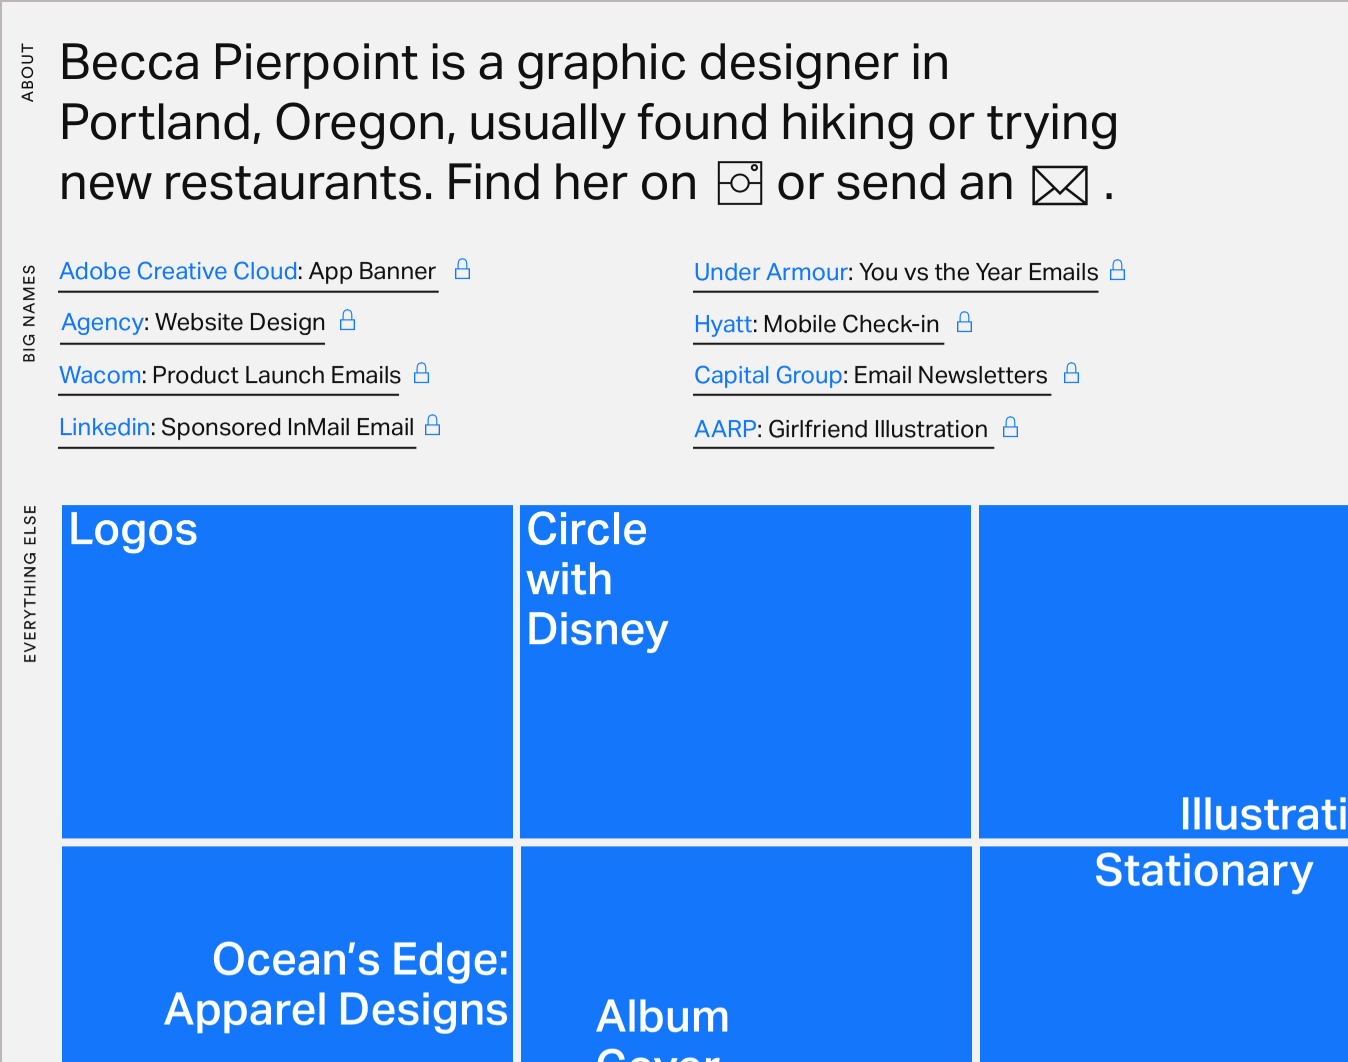
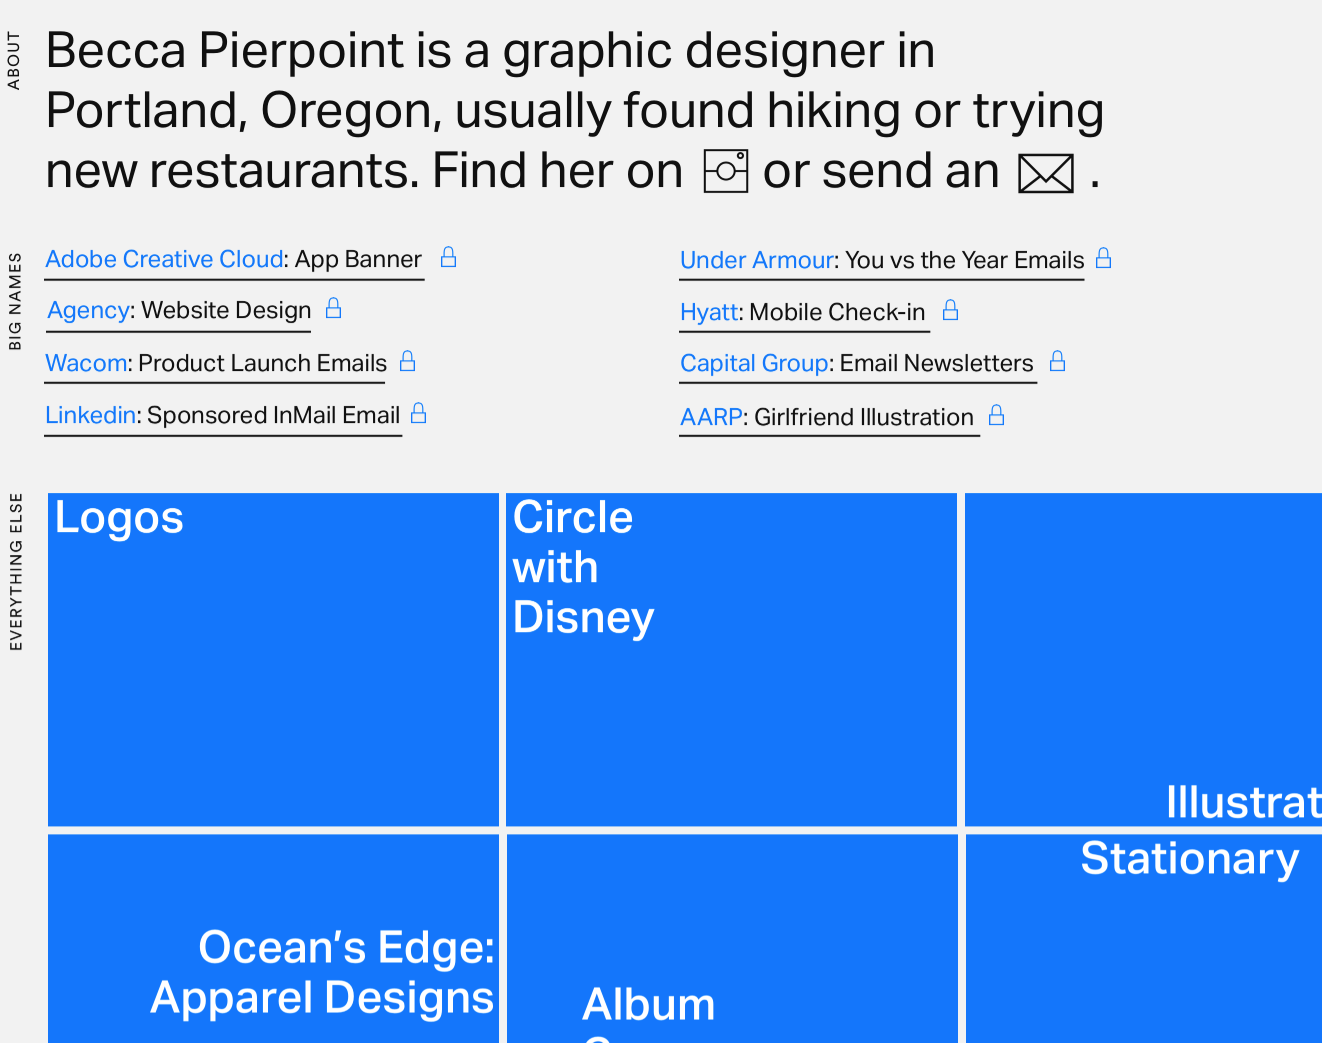
Finished Template?

diff --git a/index.html b/index.html
@@ -8,14 +8,23 @@
     <link href="https://fonts.googleapis.com/css?family=DM+Serif+Display&display=swap" rel="stylesheet">
     <link rel="stylesheet" href="https://maxcdn.bootstrapcdn.com/bootstrap/4.0.0/css/bootstrap.min.css" integrity="sha384-Gn5384xqQ1aoWXA+058RXPxPg6fy4IWvTNh0E263XmFcJlSAwiGgFAW/dAiS6JXm" crossorigin="anonymous">
     <link href="https://fonts.googleapis.com/css?family=Noto+Sans+HK:500&display=swap" rel="stylesheet">
+    <link rel="stylesheet" href="https://use.typekit.net/qem7thb.css">
     <script src="https://ajax.googleapis.com/ajax/libs/jquery/3.4.1/jquery.min.js"></script>
     <script src="https://ajax.googleapis.com/ajax/libs/jquery/2.1.1/jquery.min.js"></script>
+    <script type="text/javascript" src="https://cdn.emailjs.com/sdk/2.3.2/email.min.js"></script>
+  <script type="text/javascript">
+   (function(){
+      emailjs.init("user_ZAWMKXuZJCblF5cQ3OYJ3");
+   })();
+  </script>
+  <script src="https://www.google.com/recaptcha/api.js?render=reCAPTCHA_site_key"></script>
+  <script src="https://www.google.com/recaptcha/api.js" async defer></script>
     <script type="text/javascript" src="/scripts/index.js"></script>
     <title>alexanderpierpoint</title>
 </head>
 <body class="body">
   <div class="navigation">
-      <nav class="navbar navbar-expand-lg navbar-light position-sticky">
+      <nav class="navbar navbar-expand-lg navbar-light">
           <button class="navbar-toggler" type="button" data-toggle="collapse" data-target="#navbarNav" aria-controls="navbarNav" aria-expanded="false" aria-label="Toggle navigation">
             <span class="navbar-toggler-icon"></span>
           </button>
@@ -68,6 +77,7 @@
                     <h5 class="card-title">Becca's Portfolio</h5>
                     <p class="card-text">Becca Pierpoint responsive design portfolio built with React.js</p>
                     <a href="#" class="btn btn-outline-secondary">Check it out</a>
+                    <a href="#" class="btn btn-outline-secondary">github</a>
                   </div>
                 </div>
               <div class="card bg-transparent col-sm">
@@ -76,10 +86,44 @@
                         <h5 class="card-title">Becca's Portfolio</h5>
                         <p class="card-text">Becca Pierpoint responsive design portfolio built with React.js</p>
                         <a href="#" class="btn btn-outline-secondary">Check it out</a>
+                        <a href="#" class="btn btn-outline-secondary">github</a>
                       </div>
                     </div>
                 </div>
           </div>
+
+          <div class="contact" id="contact">
+                <h4>Contact Me.</h4>
+                <p>Currently looking for full time entry level positions.</p>
+
+                <div id="booking-form" class="container-fluid booking-form">
+              
+                    <div id="inputs" class="container-fluid">
+              
+                      <input id="name" type="text"  alt="submit" placeholder="Name" name="foo" /><br>
+                      <input id="email" type="text"  alt="submit" placeholder="Email Adress" /><br>
+                      <textarea id="talk-to-me" type="text"  alt="submit" placeholder="Talk to me"></textarea><br>
+                      </div>
+                      <div id="inputs" class="container-fluid">
+                      <textarea id="how" type="text"  alt="submit" placeholder="How did you find me?"></textarea><br>
+                      <button onclick="sendMail(), success()" id="submit">Submit</button>
+                    </div><br>
+              
+              
+                    <div class="g-recaptcha" data-sitekey="6LeNLqoUAAAAAGOd386OPuSlB8zBSkMdi0UrfTaL"></div>
+              
+              
+                    </div>
+          </div>
+
+          <div class="social">
+            <div class="icons">
+              <a></a>
+            </div>
+
+          </div>
+
+
 
         </div>
 

diff --git a/css/styles.css b/css/styles.css
@@ -1,13 +1,21 @@
 .body {
-  background-color: #fff5db;
+  background-color:#fefdfa;
   display: grid;
 }
 
 .navigation {
+  position: fixed;
+  top: 0;
   margin: 10px;
   justify-self: end;
   grid-template-rows: 100%;
   position: sticky;
+  border: 1px solid lawngreen;
+  z-index: 99;
+}
+
+.navigation .nav-item {
+  color: lawngreen;
 }
 
 .hello {
@@ -30,7 +38,7 @@
   background-size: 100%;
   background-repeat: no-repeat;
   margin-top: 9em;
-  padding: 3em;
+  padding: 5em;
   padding-bottom: 3em;
   margin-left: 60px;
   margin-right: 60px;
@@ -41,10 +49,12 @@
   margin-left: 20px;
   margin-right: 20px;
   margin-top: 1vh;
-  font-family: 'Noto Sans HK', sans-serif;
+  font-family: sofia-pro, sans-serif;
+  font-weight: 700;
+  font-style: normal;
   font-size: 3vw;
  /* background-color: rgba(255, 228, 153, 0.8);*/
-  color: whitesmoke;
+  color: white;
   text-align: right;
 }
 
@@ -52,24 +62,25 @@
   padding: 12px;
   margin-right: 20px;
   margin-left: 20px;
-  font-family: 'Noto Sans HK', sans-serif;
+  font-family: sofia-pro, sans-serif;
+  font-weight: 700;
+  font-style: normal;
   font-size: 3vw;
  /* background-color: rgba(255, 228, 153, 0.8); */
-  color: whitesmoke;
+  color: white;
   text-align: left;
 }
 
 
 .projects {
-  background-color: #fff5db;
-  margin-top: 5em;
+  margin-top: 10em;
 }
 
 .projects h3 {
   font-family: 'DM Serif Display', serif;
   text-align: center;
   font-size: 4em;
-  color: #ab7b00;
+  color:#AFE313;
 }
 
 .projects .funthings {
@@ -87,6 +98,83 @@
   margin-top: 10px;
 }
 
+.contact {
+  text-align: center;
+}
+
+.contact h4 {
+  font-family: 'DM Serif Display', serif;
+  text-align: center;
+  font-size: 2em;
+  color: #AFE313;
+}
+
+.contact p {
+  color: #AFE313;
+  text-align: center;
+}
+
+.contact .booking-form {
+ text-align: center;
+ display: inline-block;
+ 
+}
+
+.booking-form #name {
+  width: 400px;
+  margin-top: 10px;
+  padding: 5px;
+  border-radius: 15px;
+  border: 1px solid  #AFE313;
+  background-color: transparent;
+}
+
+.booking-form #email {
+  width: 400px;
+  margin-top: 10px;
+  padding: 5px;
+  border-radius: 15px;
+  border: 1px solid #AFE313;
+  background-color: transparent;
+}
+
+.booking-form #talk-to-me {
+  text-align: top;
+  height: 150px;
+  width: 400px;
+  margin-top: 10px;
+  padding: 5px;
+  border-radius: 15px;
+  border: 1px solid #AFE313;
+  background-color: transparent;
+}
+
+.booking-form #how {
+  height: 150px;
+  width: 400px;
+  margin-top: 10px;
+  padding: 5px;
+  border-radius: 15px;
+  border: 1px solid  #AFE313;
+  background-color: transparent;
+}
+
+.booking-form button {
+  display: inline-block;
+  margin-top: 10px;
+  margin-bottom: 20px;
+  padding: 5px;
+  border-radius: 15px;
+  border: 1px solid  #AFE313;
+  background-color: transparent;
+  color: gray;
+}
+
+.g-recaptcha {
+  display: inline-block;
+  margin-top: 20px;
+
+}
 
 
 

diff --git a/scripts/index.js b/scripts/index.js
@@ -83,3 +83,71 @@ $(window).scroll(function(event) {
     } 
   });
 });
+
+$(window).scroll(function(event) {
+  
+  $(".contact").each(function(i, el) {
+    var el = $(el);
+    if (el.visible(true)) {
+      el.addClass("come-in"); 
+    } 
+  });
+});
+
+$(window).scroll(function(event) {
+  
+  $(".booking-form").each(function(i, el) {
+    var el = $(el);
+    if (el.visible(true)) {
+      el.addClass("come-in"); 
+    } 
+  });
+});
+
+
+// EMAIL SECTION
+
+function sendMail() {
+  // getName
+  // getBusinessName
+  // getEmail
+  // getType
+ var name = document.getElementById("name").value;
+ var business = document.getElementById("business").value;
+ var email = document.getElementById("email").value;
+ var dropdown = document.getElementById("dropdown").value;
+ var how = document.getElementById("how").value;
+
+
+ var template_params = {
+   "reply_to": email,
+   "from_name": name,
+   "name": name,
+   "email": email,
+   "talk-to-me": talk-to-me,
+   "how": how
+};
+
+var service_id = "default_service";
+var template_id = "template_1SvvVysN";
+emailjs.send(service_id, template_id, template_params);
+}
+
+function success() {
+
+alert("Your Email Was Successfully Sent!");
+
+
+  //site key 6LeNLqoUAAAAAGOd386OPuSlB8zBSkMdi0UrfTaL
+  //secret key 6LeNLqoUAAAAAFz7HHjHqCAuTdeGNs8JgDKkRKKK
+
+
+}
+
+
+emailjs.send('<YOUR SERVICE ID>', '<YOUR TEMPLATE ID>', templateParams)
+    .then(function(response) {
+       console.log('SUCCESS!', response.status, response.text);
+    }, function(error) {
+       console.log('FAILED...', error);
+    });
